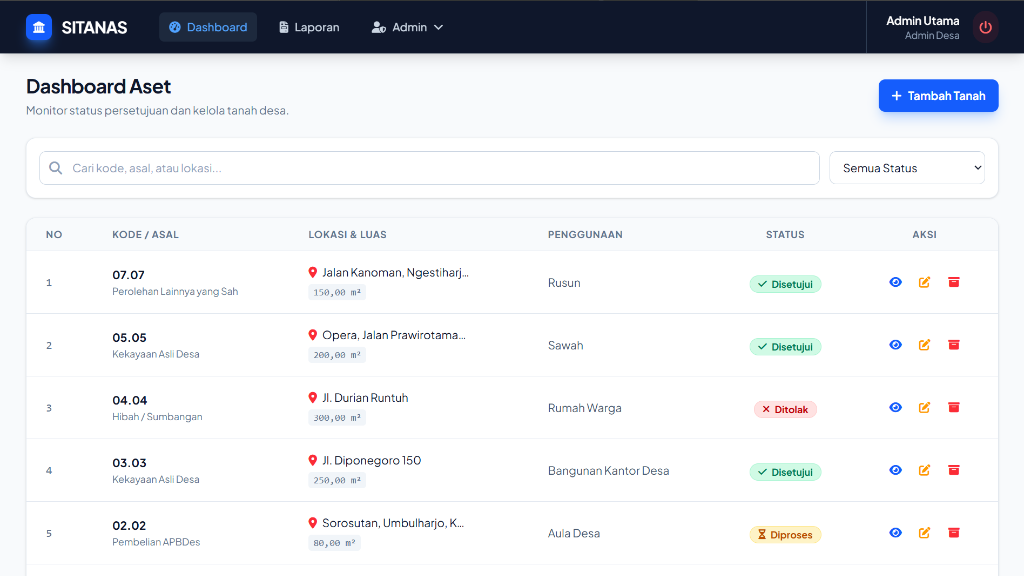
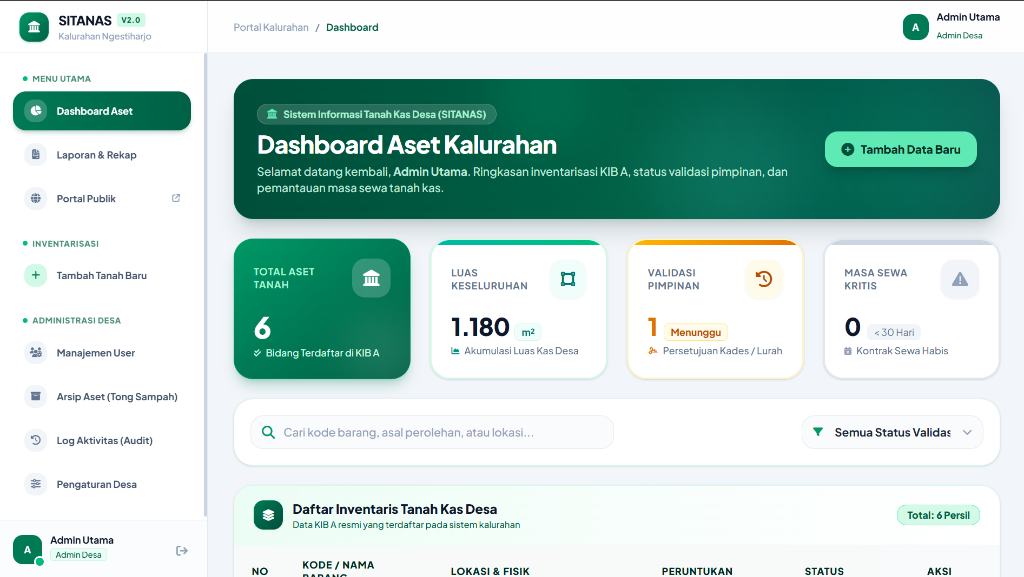
feat: replace SITANAS screenshots with updated portal and dashboard, add cache buster

diff --git a/index.html b/index.html
@@ -368,8 +368,8 @@
 
                         <div class="bento-carousel exp-carousel" id="carousel-sitanas" aria-label="Dokumentasi Sistem Informasi SITANAS">
                             <div class="carousel-track">
-                                <img src="img_sitanas_login.png" alt="SITANAS - Halaman Login Portal Tanah Kas Desa" class="carousel-img" width="600" height="340" loading="lazy" decoding="async">
-                                <img src="img_sitanas.png" alt="SITANAS - Dashboard Manajemen Tanah Aset Kas Desa" class="carousel-img" width="600" height="340" loading="lazy" decoding="async">
+                                <img src="img_sitanas_login.png?v=2" alt="SITANAS - Halaman Login Portal Tanah Kas Desa" class="carousel-img" width="600" height="340" loading="lazy" decoding="async">
+                                <img src="img_sitanas.png?v=2" alt="SITANAS - Dashboard Manajemen Tanah Aset Kas Desa" class="carousel-img" width="600" height="340" loading="lazy" decoding="async">
                             </div>
                             <button class="carousel-btn prev" type="button" aria-label="Slide sebelumnya"><i class="fas fa-chevron-left" aria-hidden="true"></i></button>
                             <button class="carousel-btn next" type="button" aria-label="Slide berikutnya"><i class="fas fa-chevron-right" aria-hidden="true"></i></button>
